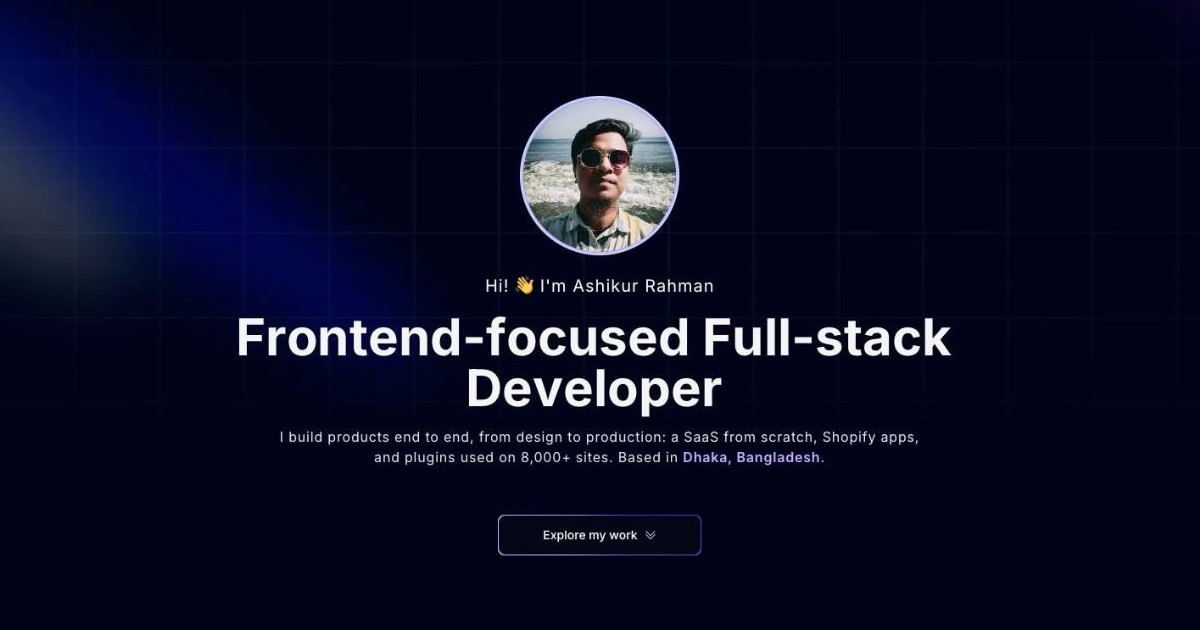
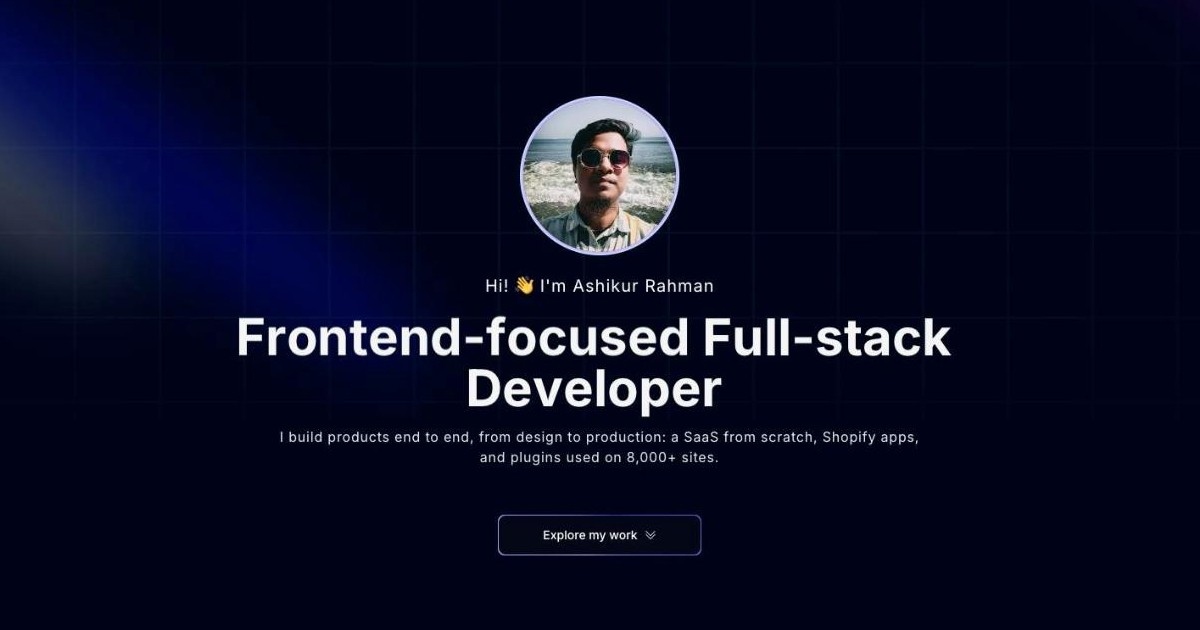
Move location out of the hero into a small badge with the time zone

diff --git a/components/Home-page-sections/About.tsx b/components/Home-page-sections/About.tsx
@@ -66,9 +66,14 @@ const Block = ({ className, children, ...rest }: BlockProps) => {
 const HeaderBlock = () => (
   <Block className="col-span-12 row-span-2 md:col-span-8 p-0 md:p-0">
     <AnimatedGradientBG className="p-5 md:p-8 ">
-      <div className="inline-flex h-full animate-shimmer cursor-pointer items-center justify-center rounded-full border border-gray-800 bg-[linear-gradient(110deg,#000,45%,#4D4B4B,55%,#000)] bg-[length:250%_100%] px-3 py-1 text-xs font-medium text-gray-300 mb-4 z-20">
-        <div className="h-2 w-2 bg-green-500 rounded-full mr-1"></div>
-        <p>Available from Jan 2027 · remote first, on-site welcome</p>
+      <div className="flex flex-wrap gap-2 mb-4">
+        <div className="inline-flex h-full animate-shimmer cursor-pointer items-center justify-center rounded-full border border-gray-800 bg-[linear-gradient(110deg,#000,45%,#4D4B4B,55%,#000)] bg-[length:250%_100%] px-3 py-1 text-xs font-medium text-gray-300 z-20">
+          <div className="h-2 w-2 bg-green-500 rounded-full mr-1"></div>
+          <p>Available from Jan 2027 · remote first, on-site welcome</p>
+        </div>
+        <p className="inline-flex items-center rounded-full border border-gray-800 px-3 py-1 text-xs font-medium text-gray-300 z-20">
+          Dhaka, Bangladesh (GMT+6)
+        </p>
       </div>
       <h1 className="mb-6 md:mb-8 text-2xl sm:text-3xl  leading-tight text-white-100">
         I care about what users never see but always feel:{" "}

diff --git a/components/Home-page-sections/Hero.tsx b/components/Home-page-sections/Hero.tsx
@@ -81,8 +81,7 @@ export const Hero = () => {
 						<BlurFadeEffectWrapper delay={0.38}>
 							<p className="text-center md:tracking-wider  text-base md:text-md text-zinc-200">
 								I build products end to end, from design to production: a SaaS
-								from scratch, Shopify apps, and plugins used on 8,000+ sites. Based in{" "}
-								<span className="text-purple font-semibold">Dhaka, Bangladesh</span>.
+								from scratch, Shopify apps, and plugins used on 8,000+ sites.
 							</p>
 						</BlurFadeEffectWrapper>
 					</div>
